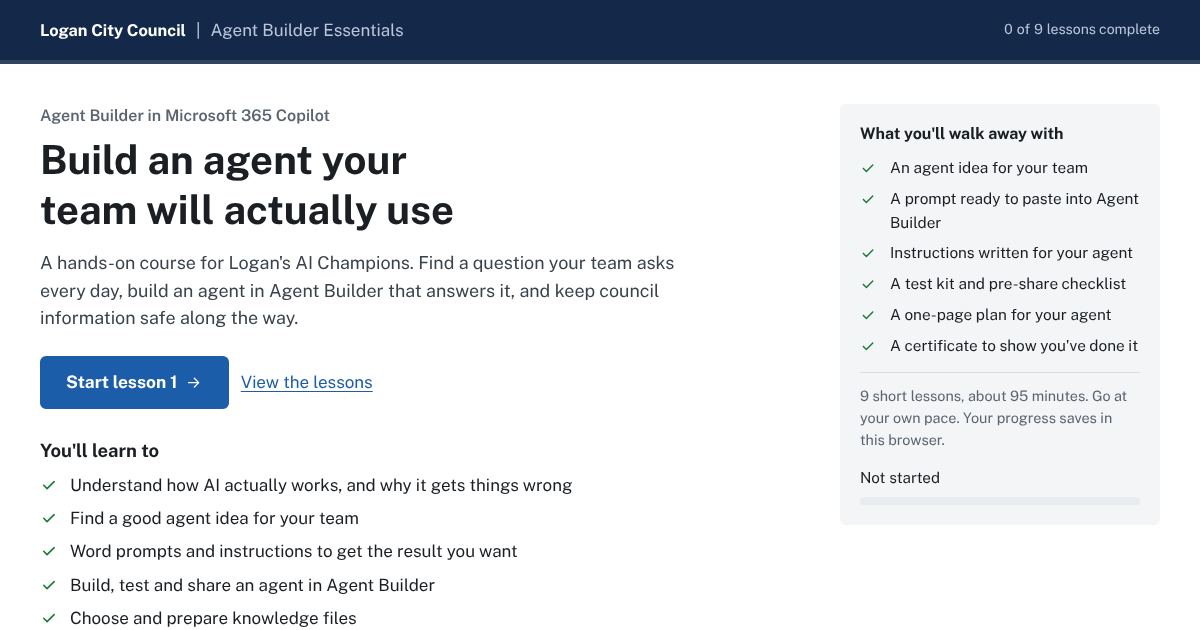
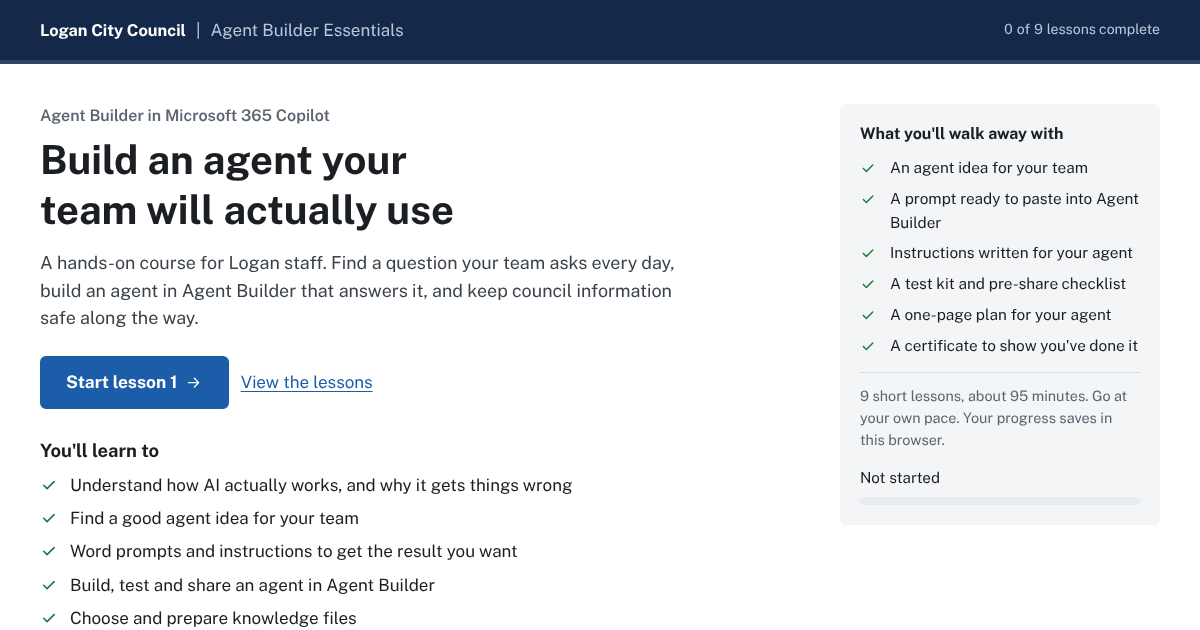
Agent Builder Essentials v3.9: share preview says Logan staff, not AI Champions
Claude-Session: https://claude.ai/code/session_01Tsx6a7MiPNj6XipaYGLmTk

Changed region(s): [[0.0308, 0.3921, 0.555, 0.5127]]

diff --git a/ai-course/index.html b/ai-course/index.html
@@ -4,18 +4,18 @@
 <meta charset="utf-8">
 <meta name="viewport" content="width=device-width, initial-scale=1, viewport-fit=cover">
 <meta name="robots" content="noindex">
-<meta name="description" content="Hands-on course for Logan AI Champions: build an agent in Microsoft 365 Copilot Agent Builder, give it good knowledge, test it and keep information safe. Rapid prototype for management review, not endorsed.">
+<meta name="description" content="Hands-on course for Logan staff: build an agent in Microsoft 365 Copilot Agent Builder, give it good knowledge, test it and keep information safe. Rapid prototype for management review, not endorsed.">
 <meta property="og:type" content="website">
 <meta property="og:title" content="Agent Builder Essentials">
-<meta property="og:description" content="Hands-on course for Logan AI Champions: build an agent in Microsoft 365 Copilot Agent Builder, give it good knowledge, test it and keep information safe. Rapid prototype for management review, not endorsed.">
+<meta property="og:description" content="Hands-on course for Logan staff: build an agent in Microsoft 365 Copilot Agent Builder, give it good knowledge, test it and keep information safe. Rapid prototype for management review, not endorsed.">
 <meta property="og:url" content="https://ashley-pettit.github.io/logan-prototypes/ai-course/">
-<meta property="og:image" content="https://ashley-pettit.github.io/logan-prototypes/ai-course/og.png">
+<meta property="og:image" content="https://ashley-pettit.github.io/logan-prototypes/ai-course/og.png?v=3.9">
 <meta property="og:image:width" content="1200">
 <meta property="og:image:height" content="630">
 <meta property="og:locale" content="en_AU">
 <meta name="twitter:card" content="summary_large_image">
 <meta name="twitter:title" content="Agent Builder Essentials">
-<meta name="twitter:image" content="https://ashley-pettit.github.io/logan-prototypes/ai-course/og.png">
+<meta name="twitter:image" content="https://ashley-pettit.github.io/logan-prototypes/ai-course/og.png?v=3.9">
 <link rel="apple-touch-icon" href="../roster-builder/apple-touch-icon.png">
 <link rel="icon" href="../roster-builder/apple-touch-icon.png">
 <style>
@@ -505,7 +505,7 @@ footer.foot{color:var(--muted);font-size:.84rem;padding-block:22px 32px;border-t
       <div>
         <p class="kicker">Agent Builder in Microsoft 365 Copilot</p>
         <h1>Build an agent your team will actually use</h1>
-        <p class="desc">A hands-on course for Logan's AI Champions. Find a question your team asks every day, build an agent in Agent Builder that answers it, and keep council information safe along the way.</p>
+        <p class="desc">A hands-on course for Logan staff. Find a question your team asks every day, build an agent in Agent Builder that answers it, and keep council information safe along the way.</p>
         <div class="cta">
           <a class="btn big" id="ctaMain" href="#how">Start lesson 1 <svg class="i"><use href="#i-arrow"/></svg></a>
           <a href="#outline-list">View the lessons</a>
@@ -604,7 +604,7 @@ footer.foot{color:var(--muted);font-size:.84rem;padding-block:22px 32px;border-t
   </div>
 </div>
 
-<footer class="foot gut"><div class="wrap">Version 3.8 · Updated November 2026 for the current Agent Builder in Microsoft 365 Copilot. Prototype training content for Logan City Council AI Champions. Agent Builder screenshots are from <a href="https://learn.microsoft.com/en-us/microsoft-365/copilot/extensibility/agent-builder" target="_blank" rel="noopener">Microsoft Learn</a>, used under CC BY 4.0, and show Microsoft's example agents.</div></footer>
+<footer class="foot gut"><div class="wrap">Version 3.9 · Updated November 2026 for the current Agent Builder in Microsoft 365 Copilot. Prototype training content for Logan City Council. Agent Builder screenshots are from <a href="https://learn.microsoft.com/en-us/microsoft-365/copilot/extensibility/agent-builder" target="_blank" rel="noopener">Microsoft Learn</a>, used under CC BY 4.0, and show Microsoft's example agents.</div></footer>
 
 <!-- ================= LESSON CONTENT ================= -->
 <template id="t-how">

diff --git a/index.html b/index.html
@@ -87,8 +87,8 @@ h1 { font: 600 clamp(2.25rem, 6vw, 3.25rem)/1.05 "Barlow Semi Condensed", "Arial
     <img class="thumb" src="ai-course/og.png" width="1200" height="630" alt="Agent Builder Essentials preview: course home page titled Build an agent your team will actually use.">
     <div>
       <h2>Agent Builder Essentials</h2>
-      <p>A hands-on course for AI Champions: build an agent in Agent Builder, give it good knowledge, test it and keep information safe.</p>
-      <div class="meta"><span>v3.8</span><span>Works on phone and desktop</span><span class="ok">Ready for review</span></div>
+      <p>A hands-on course for Logan staff: build an agent in Agent Builder, give it good knowledge, test it and keep information safe.</p>
+      <div class="meta"><span>v3.9</span><span>Works on phone and desktop</span><span class="ok">Ready for review</span></div>
     </div>
     <span class="go">Open Agent Builder Essentials</span>
   </a>

diff --git a/README.md b/README.md
@@ -7,5 +7,5 @@ Early concepts built quickly with AI. Not endorsed tools. Synthetic data only.
 ## Prototypes
 
 - [Roster Builder](https://ashley-pettit.github.io/logan-prototypes/roster-builder/): rapid prototype, not an endorsed tool. Builds and checks a team roster, then hands it over as an Excel file that becomes the source of truth. Synthetic data only.
-- [Agent Builder Essentials](https://ashley-pettit.github.io/logan-prototypes/ai-course/): rapid prototype, not an endorsed course. For management review. A hands-on Agent Builder course for AI Champions: building agents, knowledge, testing and keeping information safe.
+- [Agent Builder Essentials](https://ashley-pettit.github.io/logan-prototypes/ai-course/): rapid prototype, not an endorsed course. For management review. A hands-on Agent Builder course for Logan staff: building agents, knowledge, testing and keeping information safe.
 - [AI & Automation Pipeline](https://ashley-pettit.github.io/logan-prototypes/ai-pipeline/): rapid prototype, not an endorsed tool. Password protected. Every AI and automation request in one place, comparing the current and a proposed request process. Invented data only.
